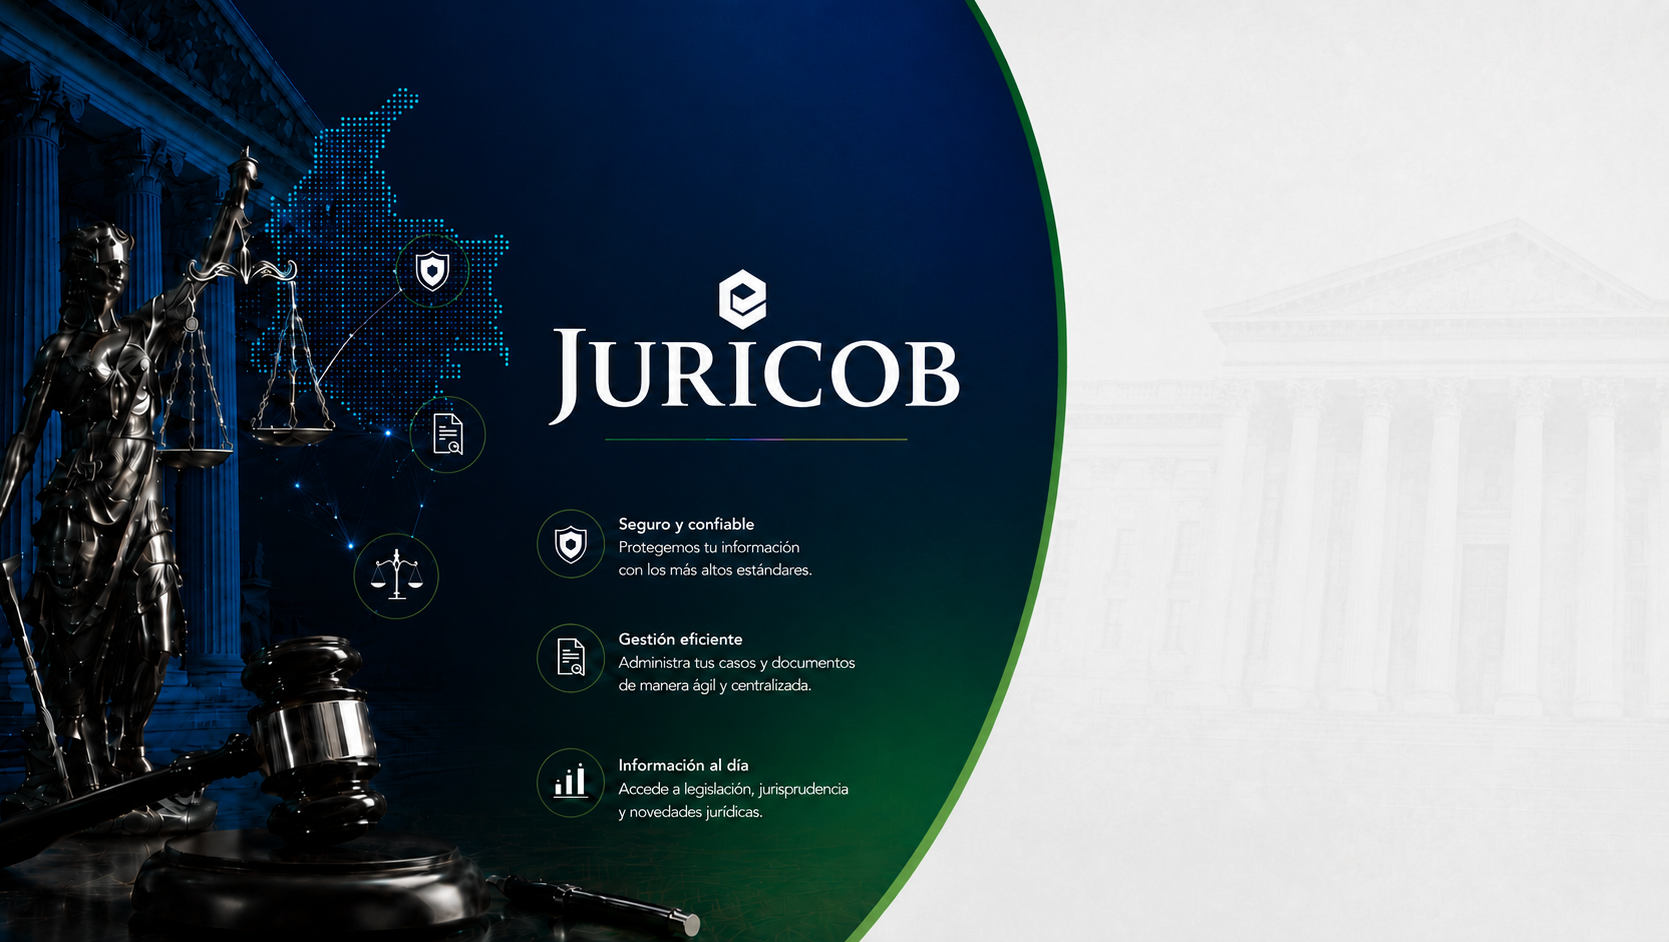
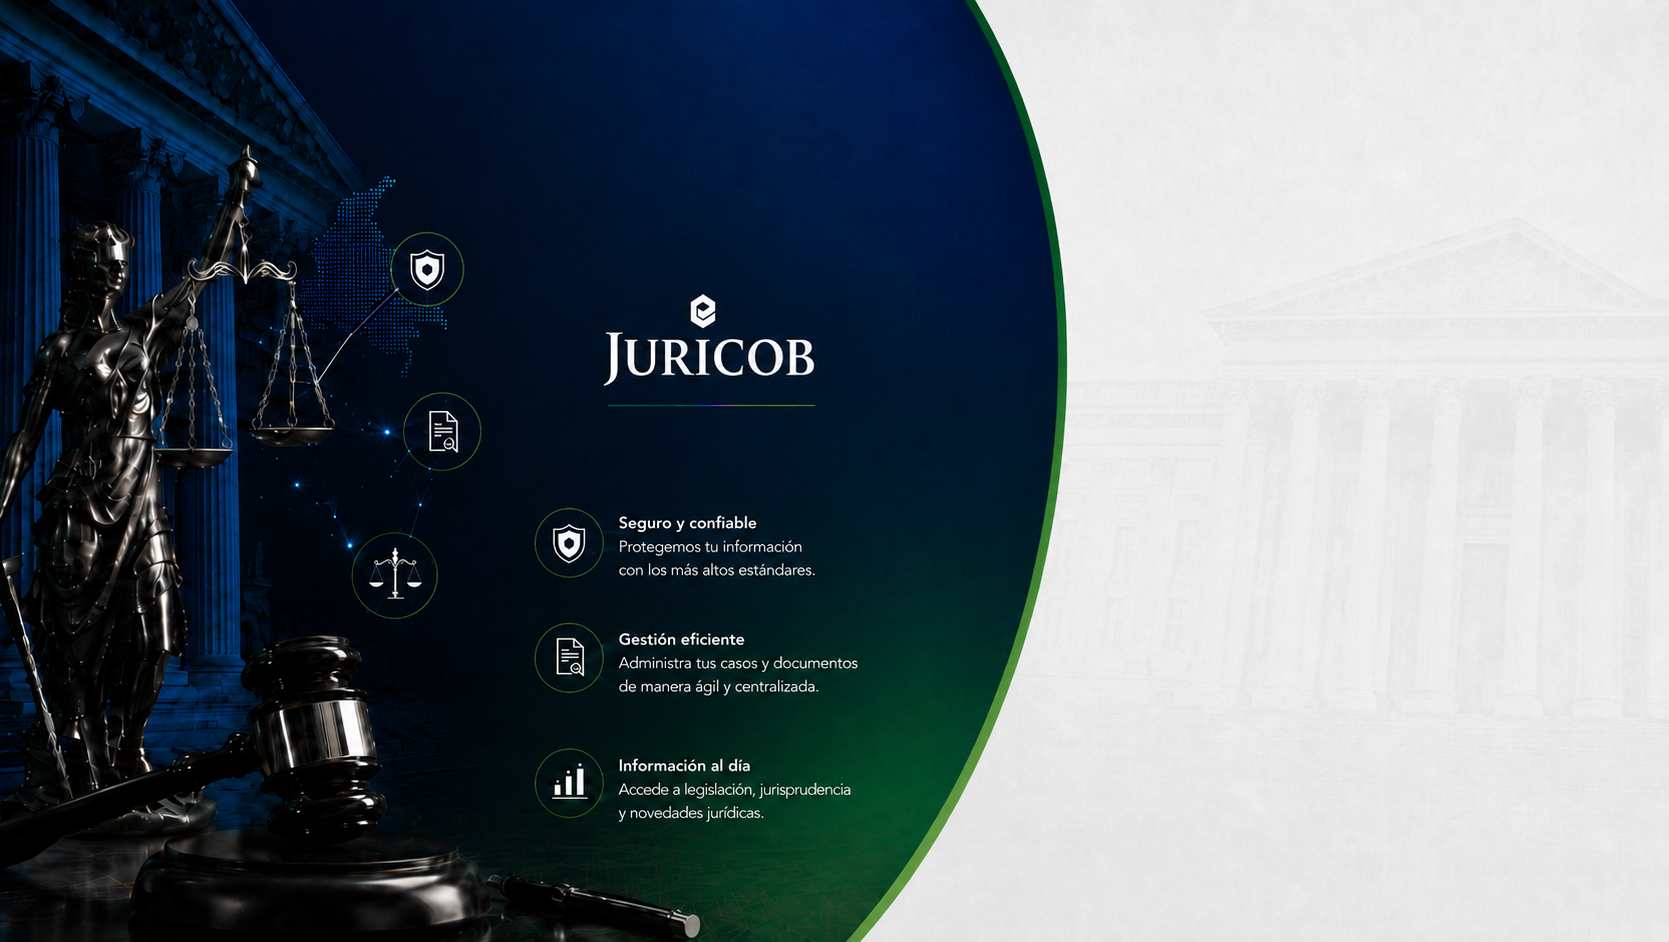
Actualizado con la nueva imagen login-2.png (branding más pequeño) y restaurado balance

diff --git a/frontend/src/pages/LoginPage.tsx b/frontend/src/pages/LoginPage.tsx
@@ -64,7 +64,7 @@ export default function LoginPage() {
           inset: 0;
           background-image: url(${LOGIN_BG});
           background-size: cover;
-          background-position: -12% bottom; /* Shifting more to the left to hide more of the blue section */
+          background-position: left bottom;
           z-index: 1;
         }
 
@@ -77,7 +77,7 @@ export default function LoginPage() {
         }
 
         .branding-area-spacer {
-          flex: 0 0 20%;
+          flex: 0 0 50%;
         }
 
         .form-area {
@@ -86,7 +86,7 @@ export default function LoginPage() {
           justify-content: center;
           align-items: center;
           padding: 2rem;
-          padding-left: 35%; /* Shifted even more right to stay centered in the now-dominant gray/white zone */
+          padding-left: 12%; /* Adjusted for the new image to center perfectly in the gray watermark area */
         }
 
         @media (max-width: 1024px) {